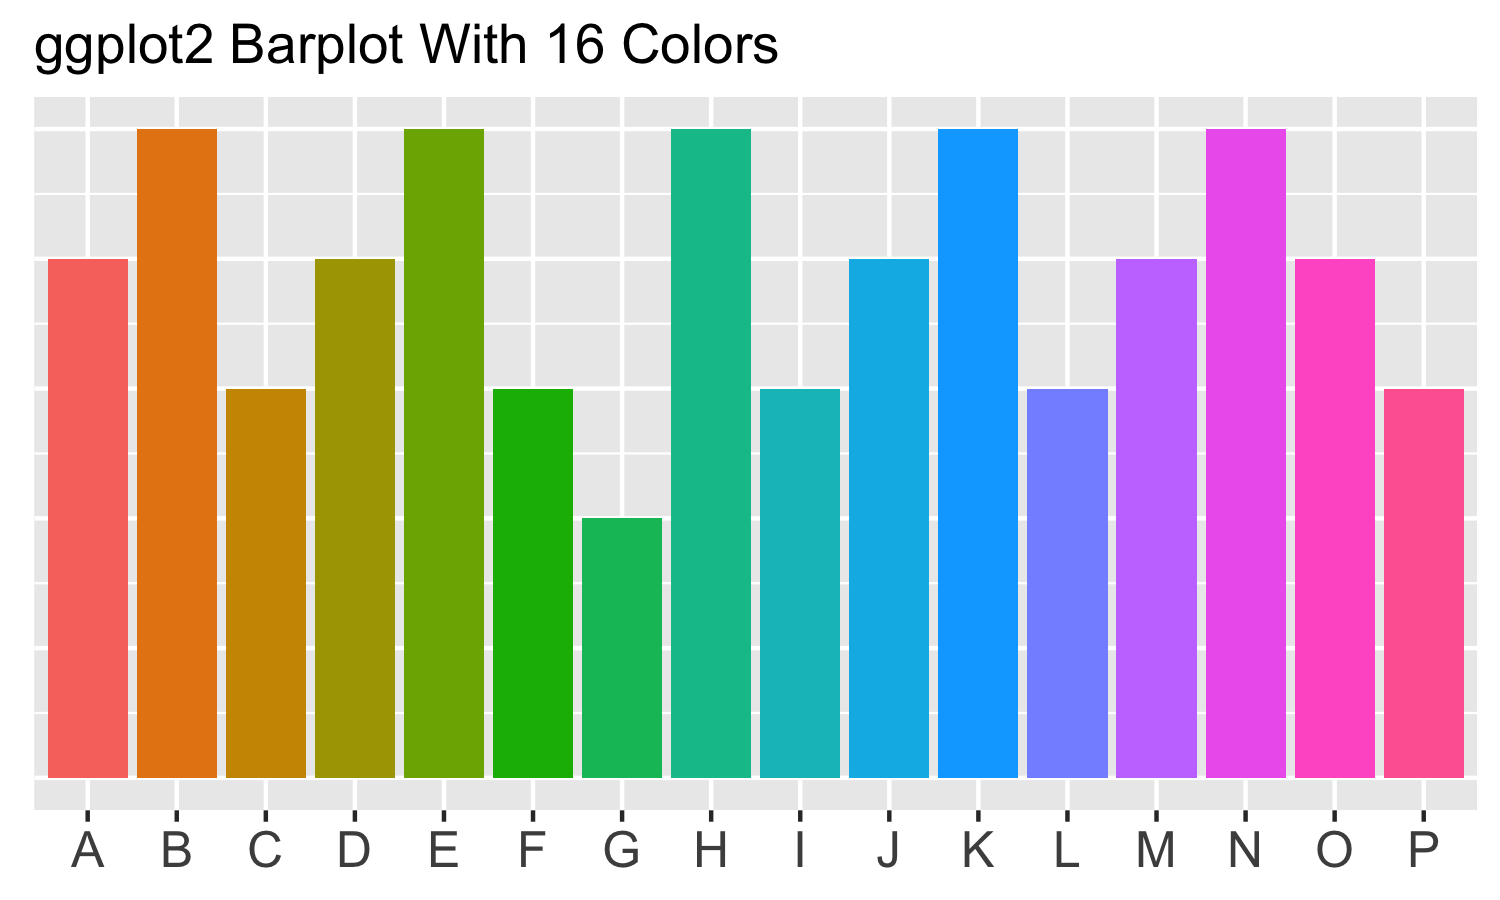
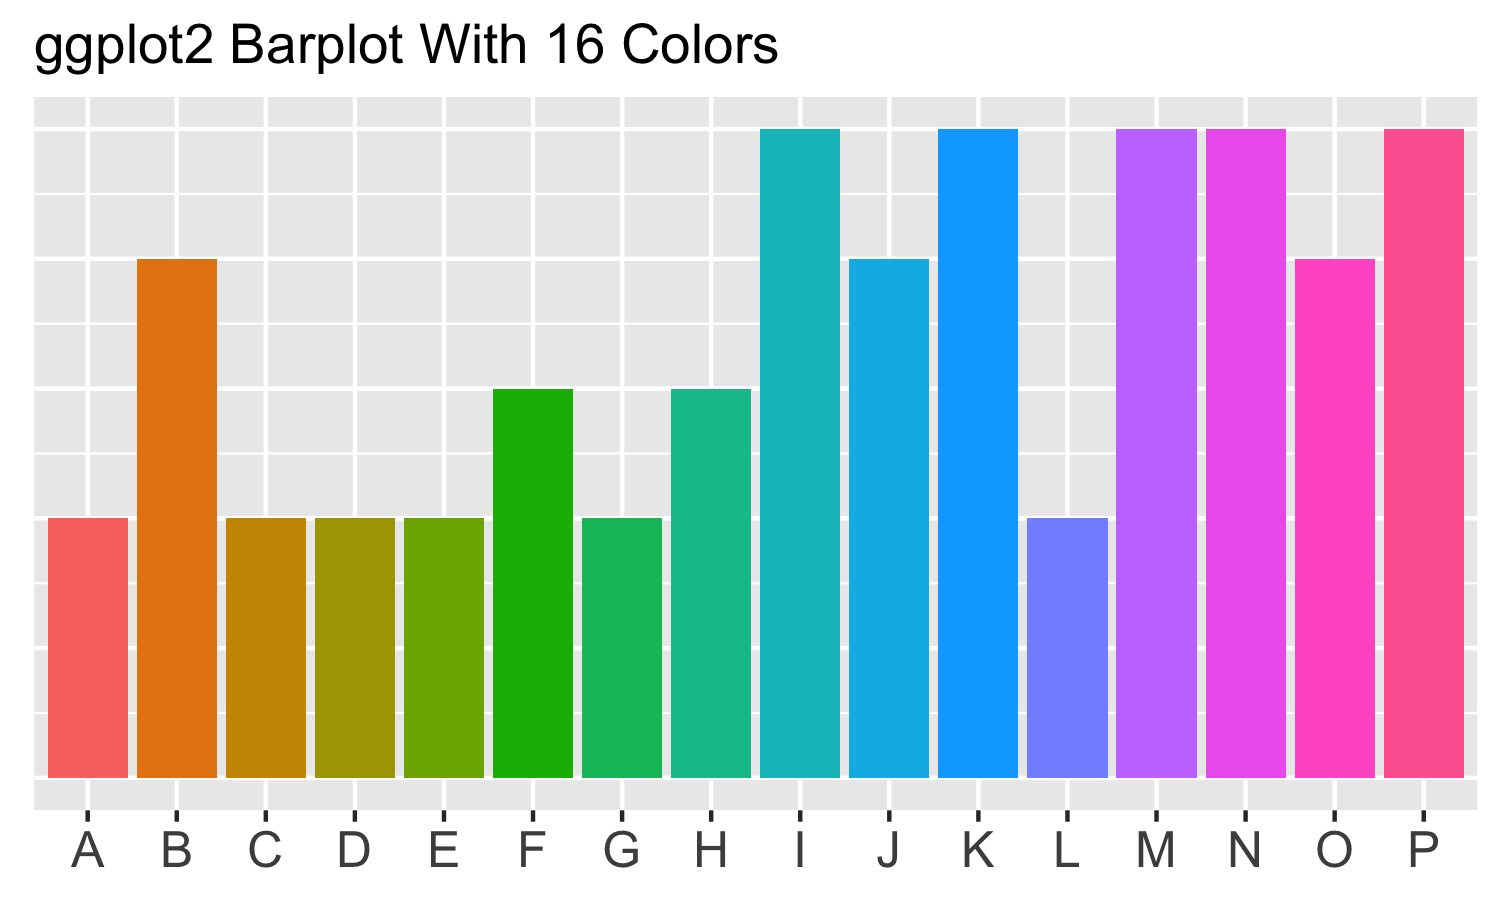
Added hide buttons for both plots.

diff --git a/README.md b/README.md
@@ -61,8 +61,8 @@ achieved.
     library(magrittr)
     library(ggplot2)
 
-    bar_data <- tibble(item=c("A","B","C","D","E","F","G","H","I","J","K","L","M","N","O","P"), count=c(4,5,3,4,5,3,2,5,3,4,5,3,4,5,4,3))
-    bar_data$item <- factor(bar_data$item,levels = c("A","B","C","D","E","F","G","H","I","J","K","L","M","N","O","P"))
+    bar_data <- tibble(item=LETTERS[1:16], count=floor(runif(16,2,6)))
+    bar_data$item <- factor(bar_data$item,levels = LETTERS[1:16])
 
     a <- ggplot(bar_data, aes(x=item, y=count, fill=item)) +
       geom_bar(stat="identity") +
